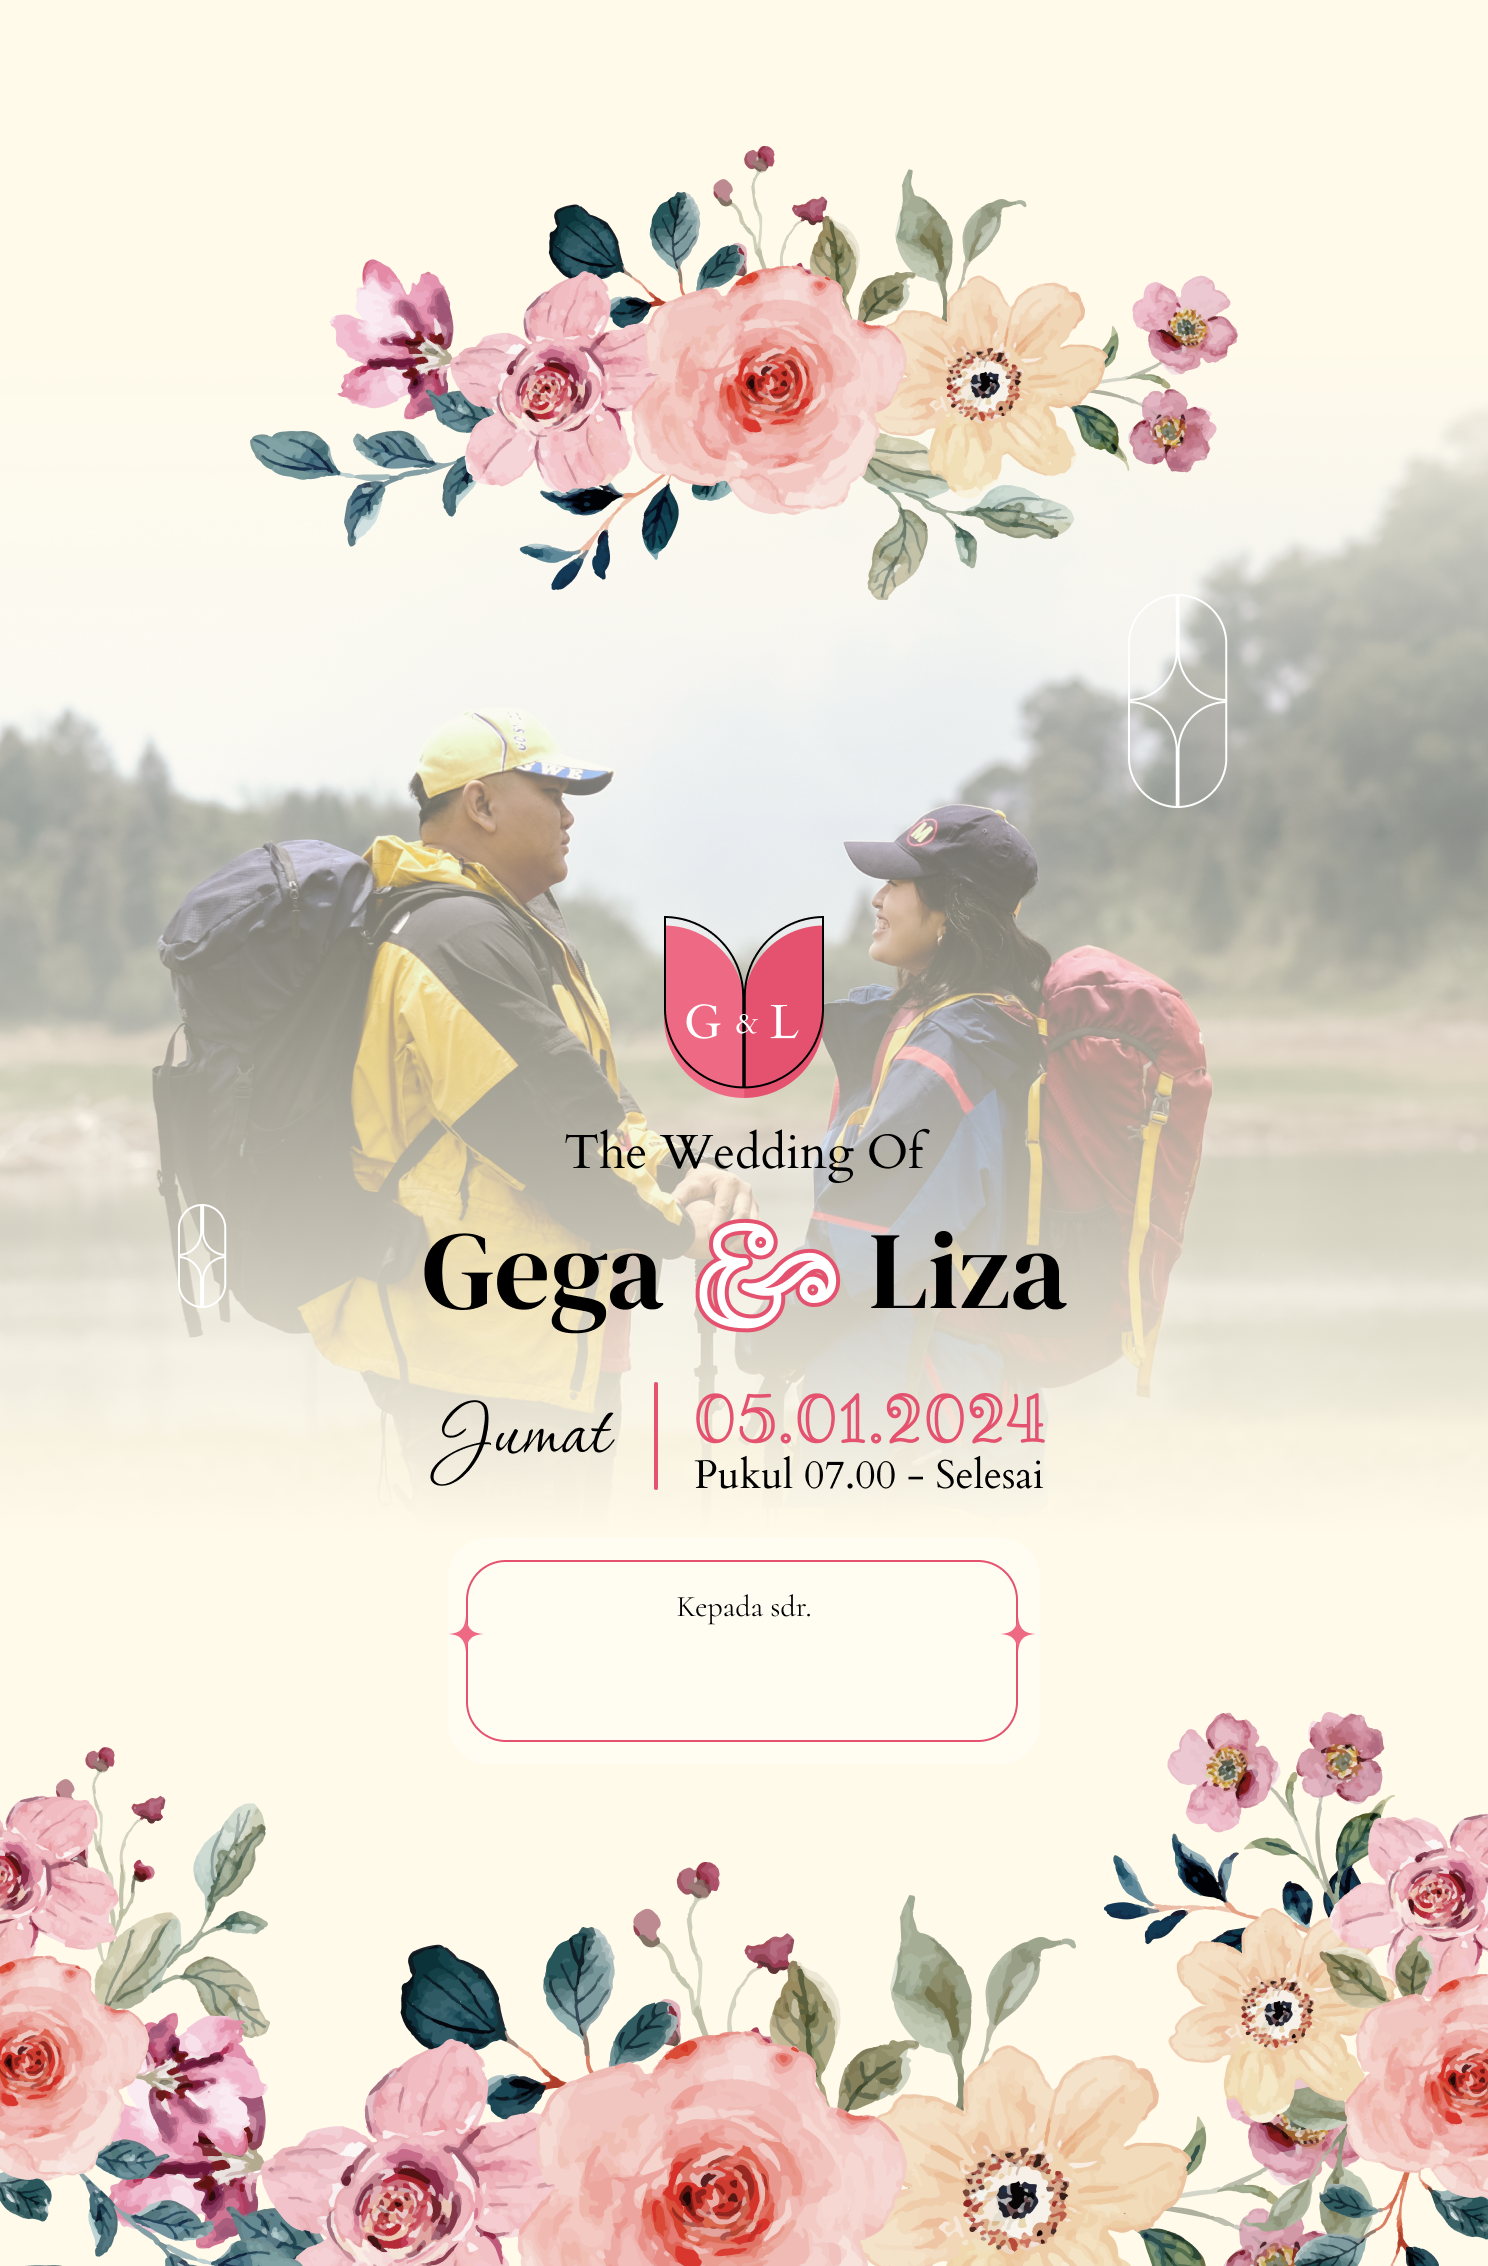
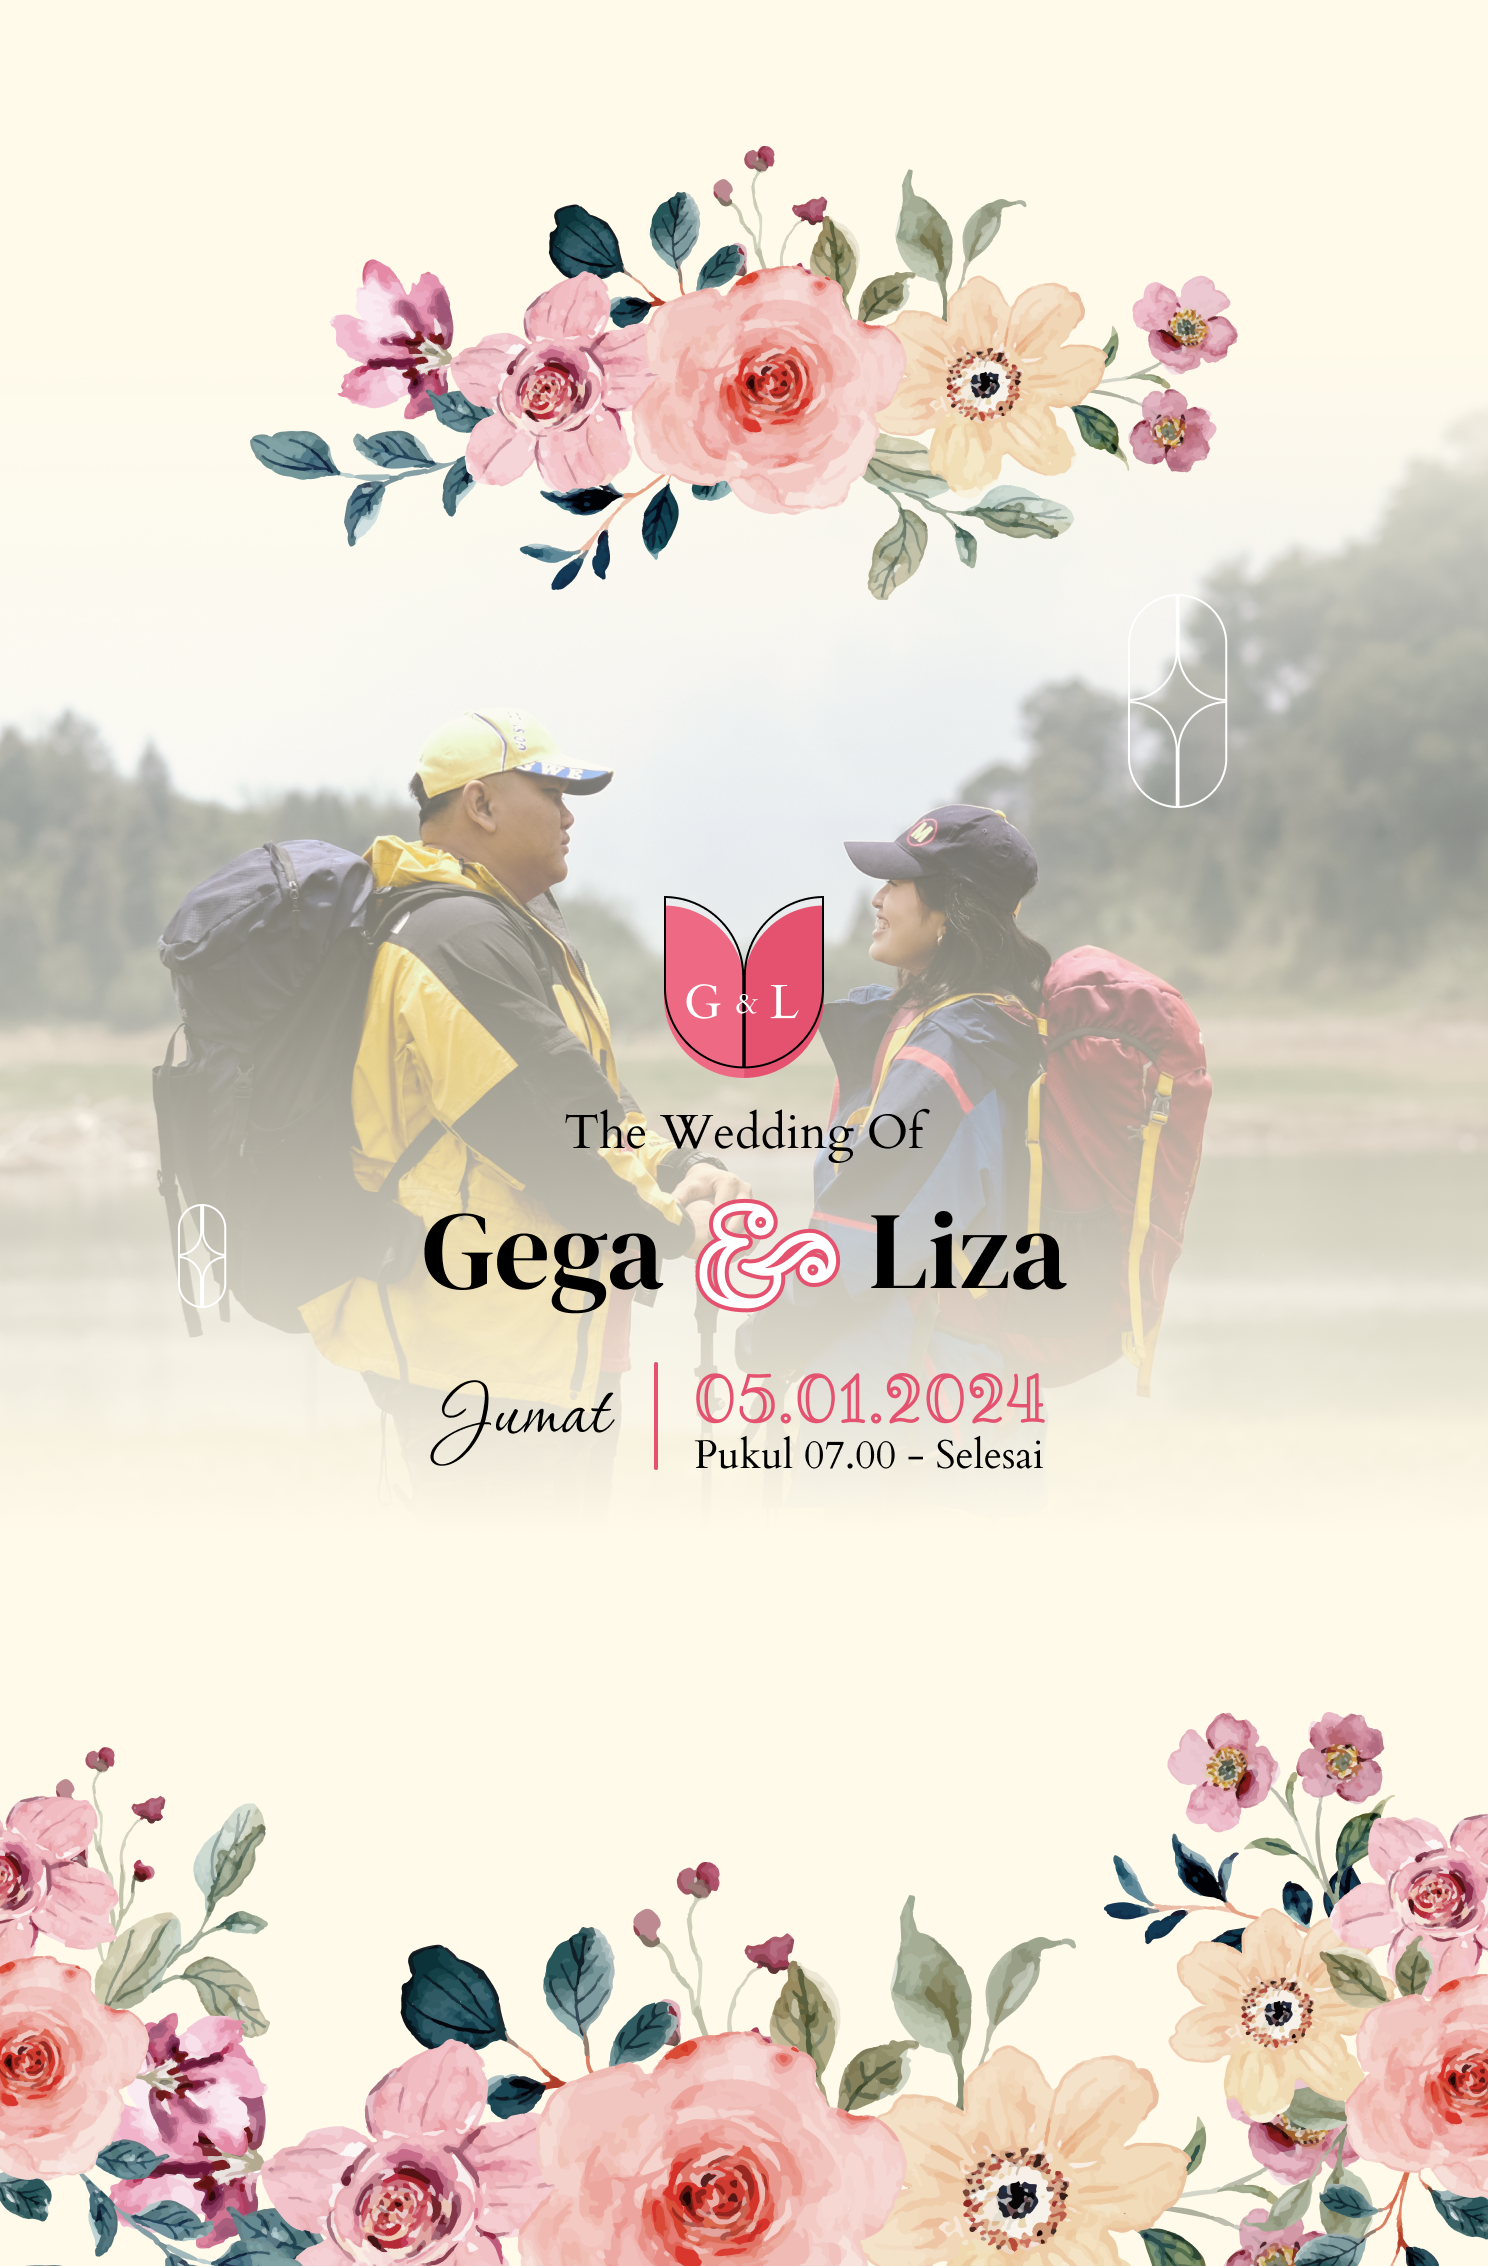
fix banget

diff --git a/src/App.js b/src/App.js
@@ -130,18 +130,14 @@ function App() {
                 data-aos-duration="2000"
                 className="mt-5"
               />
-              <div className="text-center text-3xl">
-                <p
-                  style={{ fontFamily: "Cardo" }}
-                  data-aos="fade-up"
-                  data-aos-duration="2100"
-                >
+              <div className="text-center text-3xl font-Cardo">
+                <p data-aos="fade-up" data-aos-duration="2100">
                   Save The Date <br /> The Wedding Of
                 </p>
               </div>
               <img src="./assets/hero.png" alt="hero" width={150} />
               <p
-                className="text-4xl text-center"
+                className="text-4xl text-center font-Cardo"
                 style={{ fontFamily: "Cardo" }}
                 data-aos="fade-up"
                 data-aos-duration="2500"
@@ -150,7 +146,7 @@ function App() {
                 Liza
               </p>
               <p
-                className="text-3xl mb-8 pb-36 font-medium"
+                className="text-3xl mb-8 pb-36 font-medium font-Cardo"
                 style={{ fontFamily: "Cardo" }}
                 data-aos="fade-up"
                 data-aos-duration="3000"
@@ -216,7 +212,7 @@ function App() {
                 />
               </div>
               <p
-                className="text-center"
+                className="text-center font-Cardo"
                 data-aos="fade-up"
                 data-aos-duration="2500"
               >
@@ -287,7 +283,7 @@ function App() {
                 className="-mt-16 md:mt-0"
               />
               <p
-                className="text-4xl text-center mx-5"
+                className="text-4xl text-center mx-5 font-Cardo"
                 style={{ fontFamily: "Cardo-bold" }}
                 data-aos="fade-up"
                 data-aos-duration="1000"
@@ -295,7 +291,7 @@ function App() {
                 Gega Kaniaratri Nugroho S.Par
               </p>
               <a
-                className="flex items-center text-xl gap-1"
+                className="flex items-center text-xl gap-1 font-Cardo"
                 data-aos="fade-up"
                 data-aos-duration="1500"
                 href="https://www.instagram.com/gegamuhammad/"
@@ -312,7 +308,7 @@ function App() {
                   Putra Pertama/Kedua dari keluarga
                 </p>
                 <p
-                  style={{ fontFamily: "Cardo" }}
+                  className="font-Cardo"
                   data-aos="fade-up"
                   data-aos-duration="1900"
                 >
@@ -371,7 +367,7 @@ function App() {
                 className="-mt-10"
               />
               <p
-                className="text-4xl text-center mx-8"
+                className="text-4xl text-center mx-8 font-Cardo"
                 style={{ fontFamily: "Cardo-bold" }}
                 data-aos="fade-up"
                 data-aos-duration="700"
@@ -396,7 +392,7 @@ function App() {
                   Putri Pertama/Kedua dari keluarga
                 </p>
                 <p
-                  style={{ fontFamily: "Cardo" }}
+                  className="font-Cardo"
                   data-aos="fade-up"
                   data-aos-duration="1200"
                 >
@@ -453,7 +449,7 @@ function App() {
               <div className="w-full flex items-start justify-start -mt-24 md:mt-0">
                 <div className="text-center mx-5 md:mx-20 mt-10 md:mt-10">
                   <p
-                    className="text-4xl"
+                    className="text-4xl font-Cardo"
                     style={{ fontFamily: "Cardo-bold" }}
                     data-aos="fade-up"
                     data-aos-duration="300"
@@ -461,7 +457,7 @@ function App() {
                     Akad
                   </p>
                   <p
-                    style={{ fontFamily: "Cardo" }}
+                    className="font-Cardo"
                     data-aos="fade-up"
                     data-aos-duration="500"
                   >
@@ -479,7 +475,7 @@ function App() {
               <div className="w-full flex items-end justify-end">
                 <div className="text-center mx-5 md:mx-20 md:mb-10">
                   <p
-                    className="text-4xl"
+                    className="text-4xl font-Cardo font-bold"
                     style={{ fontFamily: "Cardo-bold" }}
                     data-aos="fade-up"
                     data-aos-duration="700"
@@ -498,7 +494,7 @@ function App() {
 
               <div className="text-center mb-8 -z-0 relative w-full flex flex-col items-center mt-5">
                 <p
-                  className="text-4xl bg-accent italic"
+                  className="text-4xl bg-accent italic font-Cardo font-bold"
                   style={{ fontFamily: "Cardo-bold" }}
                   data-aos="fade-up"
                   data-aos-duration="900"
@@ -523,7 +519,7 @@ function App() {
               </div>
 
               <div
-                className="text-center mb-3 md:mt-5 mt-3"
+                className="text-center mb-3 md:mt-5 mt-3 font-Cardo"
                 style={{ fontFamily: "Cardo" }}
               >
                 <p
@@ -570,7 +566,7 @@ function App() {
                   />
                 </div>
                 <a
-                  className="absolute bottom-3 bg-secondary px-5 gap-2 py-1 rounded-2xl text-white flex items-center"
+                  className="absolute bottom-3 bg-secondary px-5 gap-2 py-1 rounded-2xl text-white flex items-center font-Cardo"
                   href="https://maps.app.goo.gl/yT7PQMZqgaJE56zKA?g_st=ic"
                   data-aos="fade-up"
                   data-aos-duration="2000"
@@ -623,7 +619,7 @@ function App() {
                   />
                 </div>
                 <h1
-                  className="text-4xl font-medium text-center mx-20 mt-5"
+                  className="text-4xl font-medium text-center mx-20 mt-5 font-Cardo"
                   data-aos="fade-up"
                   data-aos-duration="600"
                 >
@@ -831,7 +827,7 @@ function App() {
                 data-aos-duration="3000"
               >
                 <div className="w-full bg-white rounded-xl relative outline-secondary outline outline-1 px-8 py-5">
-                  <p className="text-3xl text-secondary">Farhan & Feyla</p>
+                  <p className="text-3xl text-secondary">Gega & Liza</p>
                   <img
                     className="-mt-7 mb-3"
                     src="./assets/kado.png"
@@ -910,7 +906,7 @@ function App() {
                 data-aos="fade-up"
                 data-aos-duration="3000"
               >
-                <p className=" text-center">
+                <p className=" text-center font-Cardo">
                   Merupakan suatu kehormatan dan kebahagiaan bagi kami, apabila
                   Bapak/Ibu/Saudara/i berkenan hadir dan memberikan restu. Atas
                   kehadiran dan doa restunya, kami mengucapkan terimakasih

diff --git a/src/screens/cover.jsx b/src/screens/cover.jsx
@@ -1,6 +1,6 @@
 import React from "react";
 
-export default function CoverScreen({ onClick }) {
+export default function CoverScreen({ kepada, onClick }) {
   return (
     <div className="w-full h-screen flex justify-center items-center overflow-hidden">
       <div className="w-full max-w-3xl h-screen flex flex-col items-center justify-center overflow-hidden relative z-0">
@@ -9,21 +9,23 @@ export default function CoverScreen({ onClick }) {
         </div>
         <button
           onClick={onClick}
-          className="bg-third/70 text-white font-medium backdrop-blur-sm px-6 py-3 rounded-xl text-xl absolute bottom-[10%]"
-          style={{ fontFamily: "Cardo" }}
+          className="bg-third/70 text-white font-medium backdrop-blur-sm px-6 py-3 rounded-xl text-xl absolute bottom-[10%] font-Cardo"
         >
           Buka Undangan
         </button>
-        <div className="w-full hidden flex-col justify-center items-center absolute -z-10 md:flex">
+        <div className="w-full hidden flex-col justify-center items-center absolute -z-10 md:flex lg:flex xl:flex">
           <img src="./assets/covermd.png" alt="cover" />
         </div>
         <button
           onClick={onClick}
-          className="bg-third/70 text-white font-medium backdrop-blur-sm px-6 py-3 rounded-xl text-xl absolute bottom-[10%]"
-          style={{ fontFamily: "Cardo" }}
+          className="bg-third/70 text-white font-medium backdrop-blur-sm px-6 py-3 rounded-xl text-xl absolute bottom-[10%] font-Cardo"
         >
           Buka Undangan
         </button>
+        <div className="absolute bg-white/60 backdrop-blur-sm rounded-xl bottom-40 md:top-auto xl:top-20 2xl:top-auto md:bottom-[20%] xl:bottom-[75%] 2xl:bottom-[20%] px-28 py-3 border-primary text-center border z-10">
+          <p className="font-Cardo text-secondary">Kepada Sdr</p>
+          <p className="text-2xl font-bold font-Cardo">{kepada}</p>
+        </div>
       </div>
     </div>
   );
